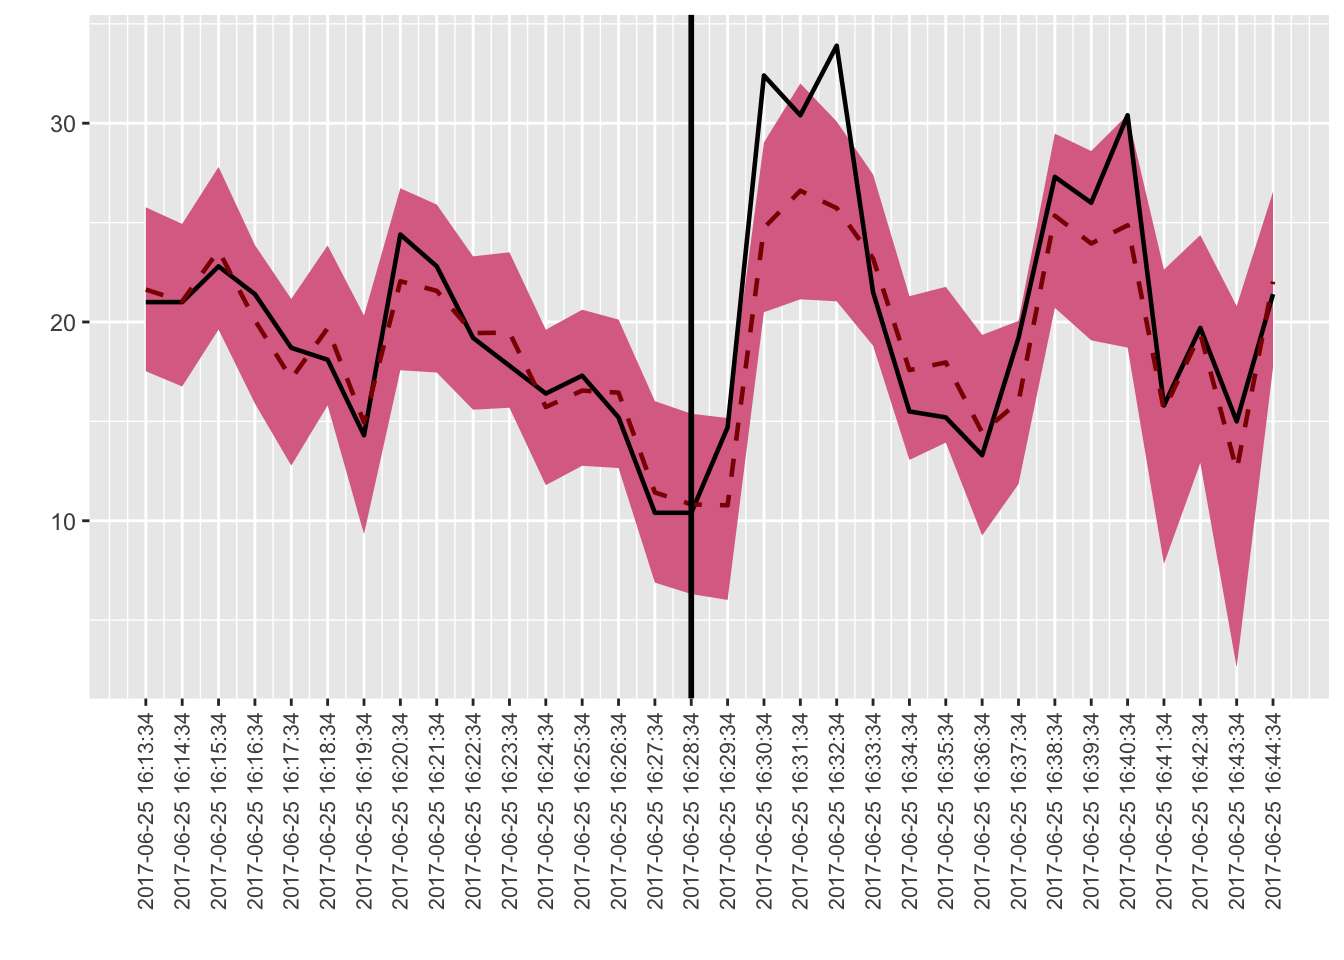
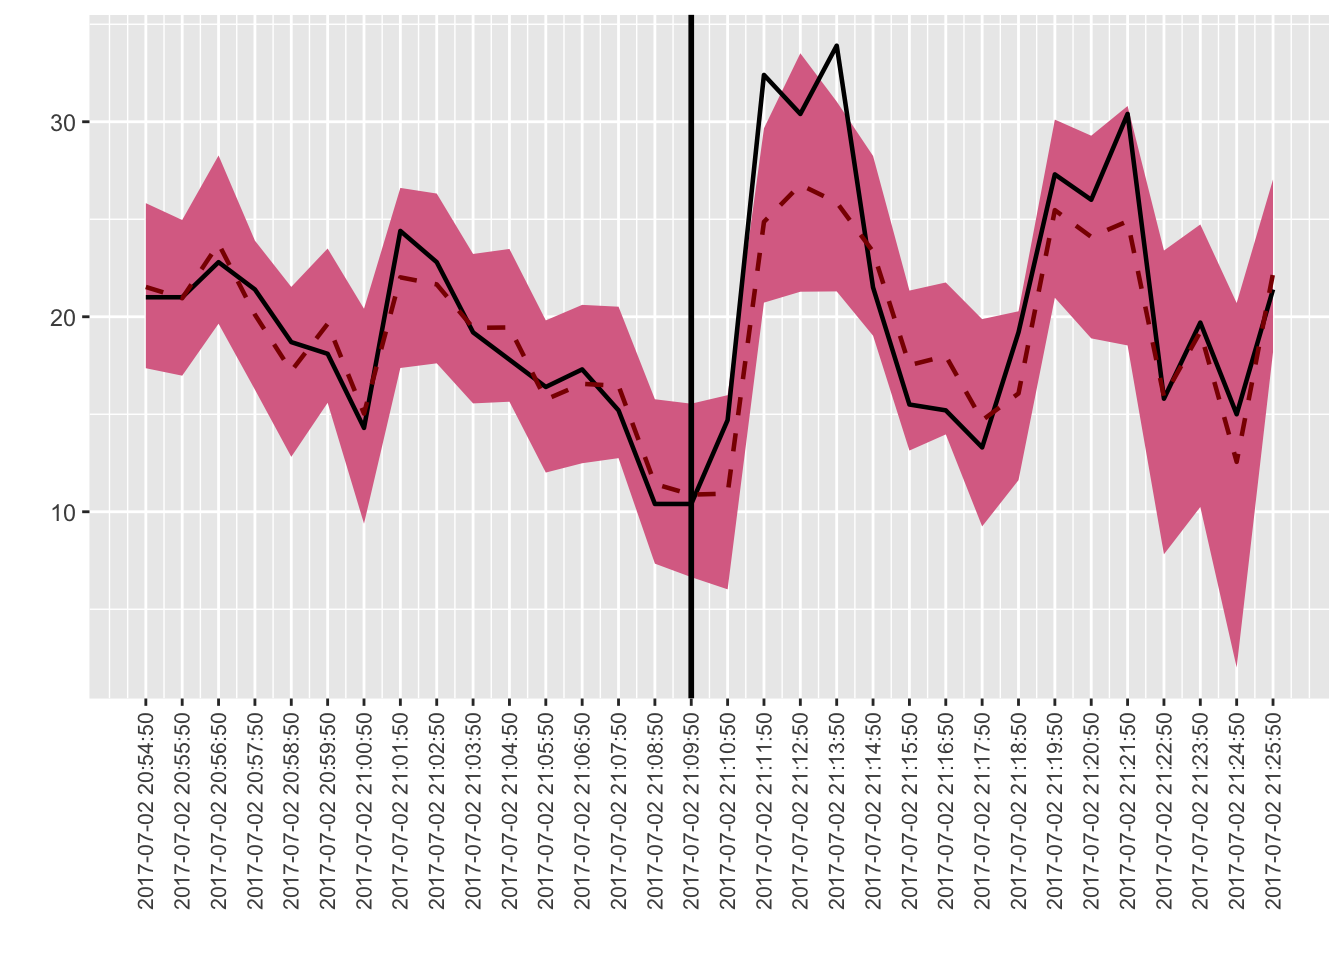
Update pkgdown web

diff --git a/docs/articles/quickstart.html b/docs/articles/quickstart.html
@@ -45,7 +45,7 @@
   </a>
   <ul class="dropdown-menu" role="menu">
 <li>
-      <a href="../articles/contextual_anomaly.html">Contextul anomaly</a>
+      <a href="../articles/contextual_anomaly.html">Contextual anomaly</a>
     </li>
     <li>
       <a href="../articles/quickstart.html">Quickstart</a>
@@ -75,7 +75,7 @@
       <h1>Quickstart</h1>
                         <h4 class="author">Kim Seonghyun</h4>
             
-            <h4 class="date">2017-06-25</h4>
+            <h4 class="date">2017-07-02</h4>
           </div>
 
     
@@ -128,22 +128,22 @@ mea_session &lt;-<span class="st"> </span><span class="dv">17</span>:<span class
 <p>If you hope to see details of those anomalies:</p>
 <div class="sourceCode"><pre class="sourceCode r"><code class="sourceCode r"><span class="kw"><a href="../reference/summarise_anomaly.html">summarise_anomaly</a></span>(.cbar, <span class="dt">.session =</span> <span class="st">"measurement"</span>)</code></pre></div>
 <pre><code>##               datetime     session    y point_pred lower_bound upper_bound
-## 1  2017-06-25 16:29:34 measurement 14.7   10.77703    6.016777    15.16784
-## 2  2017-06-25 16:30:34 measurement 32.4   24.73735   20.491798    29.03709
-## 3  2017-06-25 16:31:34 measurement 30.4   26.60379   21.141354    31.99989
-## 4  2017-06-25 16:32:34 measurement 33.9   25.72989   21.039339    30.08607
-## 5  2017-06-25 16:33:34 measurement 21.5   23.20030   18.808433    27.42156
-## 6  2017-06-25 16:34:34 measurement 15.5   17.57883   13.058847    21.29762
-## 7  2017-06-25 16:35:34 measurement 15.2   17.96419   13.930317    21.76842
-## 8  2017-06-25 16:36:34 measurement 13.3   14.44258    9.258432    19.35023
-## 9  2017-06-25 16:37:34 measurement 19.2   15.98268   11.842617    20.05249
-## 10 2017-06-25 16:38:34 measurement 27.3   25.34844   20.709734    29.47565
-## 11 2017-06-25 16:39:34 measurement 26.0   23.94787   19.077230    28.59936
-## 12 2017-06-25 16:40:34 measurement 30.4   24.86324   18.711184    30.42125
-## 13 2017-06-25 16:41:34 measurement 15.8   15.56539    7.829606    22.63419
-## 14 2017-06-25 16:42:34 measurement 19.7   19.40794   12.905539    24.37327
-## 15 2017-06-25 16:43:34 measurement 15.0   12.54660    2.619738    20.79867
-## 16 2017-06-25 16:44:34 measurement 21.4   22.03089   17.696298    26.55069
+## 1  2017-07-02 21:10:50 measurement 14.7   10.93066    6.022471    15.97934
+## 2  2017-07-02 21:11:50 measurement 32.4   24.86708   20.725183    29.66478
+## 3  2017-07-02 21:12:50 measurement 30.4   26.76957   21.283687    33.51136
+## 4  2017-07-02 21:13:50 measurement 33.9   25.86326   21.300790    31.03571
+## 5  2017-07-02 21:14:50 measurement 21.5   23.33906   19.029100    28.24685
+## 6  2017-07-02 21:15:50 measurement 15.5   17.51723   13.138531    21.34208
+## 7  2017-07-02 21:16:50 measurement 15.2   17.98976   13.966296    21.75867
+## 8  2017-07-02 21:17:50 measurement 13.3   14.68730    9.248085    19.87866
+## 9  2017-07-02 21:18:50 measurement 19.2   16.06735   11.620893    20.28151
+## 10 2017-07-02 21:19:50 measurement 27.3   25.46740   20.975158    30.11012
+## 11 2017-07-02 21:20:50 measurement 26.0   24.09679   18.891967    29.28461
+## 12 2017-07-02 21:21:50 measurement 30.4   24.89778   18.529551    30.80677
+## 13 2017-07-02 21:22:50 measurement 15.8   15.89885    7.818564    23.39550
+## 14 2017-07-02 21:23:50 measurement 19.7   19.22632   10.245207    24.73306
+## 15 2017-07-02 21:24:50 measurement 15.0   12.56023    2.016293    20.70351
+## 16 2017-07-02 21:25:50 measurement 21.4   22.21814   18.167183    27.03961
 ##    anomaly
 ## 1    FALSE
 ## 2     TRUE

diff --git a/docs/articles/contextual_anomaly.html b/docs/articles/contextual_anomaly.html
@@ -5,7 +5,7 @@
 <meta charset="utf-8">
 <meta http-equiv="X-UA-Compatible" content="IE=edge">
 <meta name="viewport" content="width=device-width, initial-scale=1.0">
-<title>Contextul anomaly • cbar</title>
+<title>Contextual anomaly • cbar</title>
 <!-- jquery --><script src="https://code.jquery.com/jquery-3.1.0.min.js" integrity="sha384-nrOSfDHtoPMzJHjVTdCopGqIqeYETSXhZDFyniQ8ZHcVy08QesyHcnOUpMpqnmWq" crossorigin="anonymous"></script><!-- Bootstrap --><link href="https://maxcdn.bootstrapcdn.com/bootstrap/3.3.7/css/bootstrap.min.css" rel="stylesheet" integrity="sha384-BVYiiSIFeK1dGmJRAkycuHAHRg32OmUcww7on3RYdg4Va+PmSTsz/K68vbdEjh4u" crossorigin="anonymous">
 <script src="https://maxcdn.bootstrapcdn.com/bootstrap/3.3.7/js/bootstrap.min.js" integrity="sha384-Tc5IQib027qvyjSMfHjOMaLkfuWVxZxUPnCJA7l2mCWNIpG9mGCD8wGNIcPD7Txa" crossorigin="anonymous"></script><!-- Font Awesome icons --><link href="https://maxcdn.bootstrapcdn.com/font-awesome/4.6.3/css/font-awesome.min.css" rel="stylesheet" integrity="sha384-T8Gy5hrqNKT+hzMclPo118YTQO6cYprQmhrYwIiQ/3axmI1hQomh7Ud2hPOy8SP1" crossorigin="anonymous">
 <!-- pkgdown --><link href="../pkgdown.css" rel="stylesheet">
@@ -45,7 +45,7 @@
   </a>
   <ul class="dropdown-menu" role="menu">
 <li>
-      <a href="../articles/contextual_anomaly.html">Contextul anomaly</a>
+      <a href="../articles/contextual_anomaly.html">Contextual anomaly</a>
     </li>
     <li>
       <a href="../articles/quickstart.html">Quickstart</a>
@@ -72,10 +72,10 @@
       </header><div class="row">
   <div class="col-md-9">
     <div class="page-header toc-ignore">
-      <h1>Contextul anomaly</h1>
+      <h1>Contextual anomaly</h1>
                         <h4 class="author">Kim Seonghyun</h4>
             
-            <h4 class="date">2017-06-25</h4>
+            <h4 class="date">2017-07-02</h4>
           </div>
 
     
@@ -83,7 +83,7 @@
 <div class="contents">
 <div id="anomaly-detection" class="section level3">
 <h3 class="hasAnchor">
-<a href="#anomaly-detection" class="anchor"></a>Anomaly detection</h3>
+<a href="#anomaly-detection" class="anchor"></a>anomaly detection</h3>
 <p>Different subscriber behaviours, hardware setups, and software configurations in the Internet service product generate various patterns. A development team validates its functionality by strict evaluation process, such as test pass rates, trouble reports, or key performance indicators. However, absence of evidence is not an evidence of absence. It is hard to detect abnormality when unknown cases deviated from normal behaviours. The root cause for these cases might be due to unseen user behaviors, hardware malfunctions or software defects. We call this anomaly.</p>
 <p>Anomaly detection refers to the problem of finding patterns in data that do not conform to the expected behaviour occurring on product. For example, we can identify unusual peaks and drops of traffic which are different from normal pattern. Since it is hard to conclude possible abnormal behaviours by rule-based system, a company commonly applies machine learning techniques to detect anomaly. It is important in computer system performance mornitoring perspective to detect anomalies quickly and automaticallly.</p>
 <p>Note that anomaly detection is different from intrusion detection. While both of them aim to detect significant changes, intrusion detection aims to detect policay violations rather than possible product defects.</p>

diff --git a/docs/articles/index.html b/docs/articles/index.html
@@ -68,7 +68,7 @@
   </a>
   <ul class="dropdown-menu" role="menu">
     <li>
-      <a href="../articles/contextual_anomaly.html">Contextul anomaly</a>
+      <a href="../articles/contextual_anomaly.html">Contextual anomaly</a>
     </li>
     <li>
       <a href="../articles/quickstart.html">Quickstart</a>
@@ -93,7 +93,7 @@
       </header>
 
       <div class="page-header">
-  <h1>Articles <small>version&nbsp;0.1.0</small></h1>
+  <h1>Articles <small>version&nbsp;0.1.1</small></h1>
 </div>
 
 <div class="row">
@@ -103,7 +103,7 @@
       <p class="section-desc"></p>
 
       <ul>
-        <li><a href="contextual_anomaly.html">Contextul anomaly</a></li>
+        <li><a href="contextual_anomaly.html">Contextual anomaly</a></li>
         <li><a href="quickstart.html">Quickstart</a></li>
       </ul>
     </div>

diff --git a/docs/index.html b/docs/index.html
@@ -45,7 +45,7 @@
   </a>
   <ul class="dropdown-menu" role="menu">
 <li>
-      <a href="articles/contextual_anomaly.html">Contextul anomaly</a>
+      <a href="articles/contextual_anomaly.html">Contextual anomaly</a>
     </li>
     <li>
       <a href="articles/quickstart.html">Quickstart</a>
@@ -87,7 +87,7 @@
 </li>
 <li>Browse source code at <br><a href="https://github.com/zedoul/cbar">https://github.com/zedoul/cbar</a>
 </li>
-<li>Report a bug at <br><a href="BugReports:%20https://github.com/zedoul/cbar/issues">BugReports: https://github.com/zedoul/cbar/issues</a>
+<li>Report a bug at <br><a href="https://github.com/zedoul/cbar/issues">https://github.com/zedoul/cbar/issues</a>
 </li>
 </ul>
 <h2>License</h2>

diff --git a/docs/reference/index.html b/docs/reference/index.html
@@ -68,7 +68,7 @@
   </a>
   <ul class="dropdown-menu" role="menu">
     <li>
-      <a href="../articles/contextual_anomaly.html">Contextul anomaly</a>
+      <a href="../articles/contextual_anomaly.html">Contextual anomaly</a>
     </li>
     <li>
       <a href="../articles/quickstart.html">Quickstart</a>
@@ -97,7 +97,7 @@
     <div class="page-header">
       <h1>
         Reference
-        <small>version&nbsp;0.1.0</small>
+        <small>version&nbsp;0.1.1</small>
       </h1>
     </div>
 

diff --git a/docs/reference/bsts_model.html b/docs/reference/bsts_model.html
@@ -68,7 +68,7 @@
   </a>
   <ul class="dropdown-menu" role="menu">
     <li>
-      <a href="../articles/contextual_anomaly.html">Contextul anomaly</a>
+      <a href="../articles/contextual_anomaly.html">Contextual anomaly</a>
     </li>
     <li>
       <a href="../articles/quickstart.html">Quickstart</a>

diff --git a/docs/reference/bsts_spec_static.html b/docs/reference/bsts_spec_static.html
@@ -68,7 +68,7 @@
   </a>
   <ul class="dropdown-menu" role="menu">
     <li>
-      <a href="../articles/contextual_anomaly.html">Contextul anomaly</a>
+      <a href="../articles/contextual_anomaly.html">Contextual anomaly</a>
     </li>
     <li>
       <a href="../articles/quickstart.html">Quickstart</a>

diff --git a/docs/reference/cbar.html b/docs/reference/cbar.html
@@ -68,7 +68,7 @@
   </a>
   <ul class="dropdown-menu" role="menu">
     <li>
-      <a href="../articles/contextual_anomaly.html">Contextul anomaly</a>
+      <a href="../articles/contextual_anomaly.html">Contextual anomaly</a>
     </li>
     <li>
       <a href="../articles/quickstart.html">Quickstart</a>

diff --git a/docs/reference/destandardized.html b/docs/reference/destandardized.html
@@ -68,7 +68,7 @@
   </a>
   <ul class="dropdown-menu" role="menu">
     <li>
-      <a href="../articles/contextual_anomaly.html">Contextul anomaly</a>
+      <a href="../articles/contextual_anomaly.html">Contextual anomaly</a>
     </li>
     <li>
       <a href="../articles/quickstart.html">Quickstart</a>

diff --git a/docs/reference/inference.html b/docs/reference/inference.html
@@ -68,7 +68,7 @@
   </a>
   <ul class="dropdown-menu" role="menu">
     <li>
-      <a href="../articles/contextual_anomaly.html">Contextul anomaly</a>
+      <a href="../articles/contextual_anomaly.html">Contextual anomaly</a>
     </li>
     <li>
       <a href="../articles/quickstart.html">Quickstart</a>

diff --git a/docs/reference/plot_ts.html b/docs/reference/plot_ts.html
@@ -68,7 +68,7 @@
   </a>
   <ul class="dropdown-menu" role="menu">
     <li>
-      <a href="../articles/contextual_anomaly.html">Contextul anomaly</a>
+      <a href="../articles/contextual_anomaly.html">Contextual anomaly</a>
     </li>
     <li>
       <a href="../articles/quickstart.html">Quickstart</a>

diff --git a/docs/reference/point_prediction.html b/docs/reference/point_prediction.html
@@ -68,7 +68,7 @@
   </a>
   <ul class="dropdown-menu" role="menu">
     <li>
-      <a href="../articles/contextual_anomaly.html">Contextul anomaly</a>
+      <a href="../articles/contextual_anomaly.html">Contextual anomaly</a>
     </li>
     <li>
       <a href="../articles/quickstart.html">Quickstart</a>
